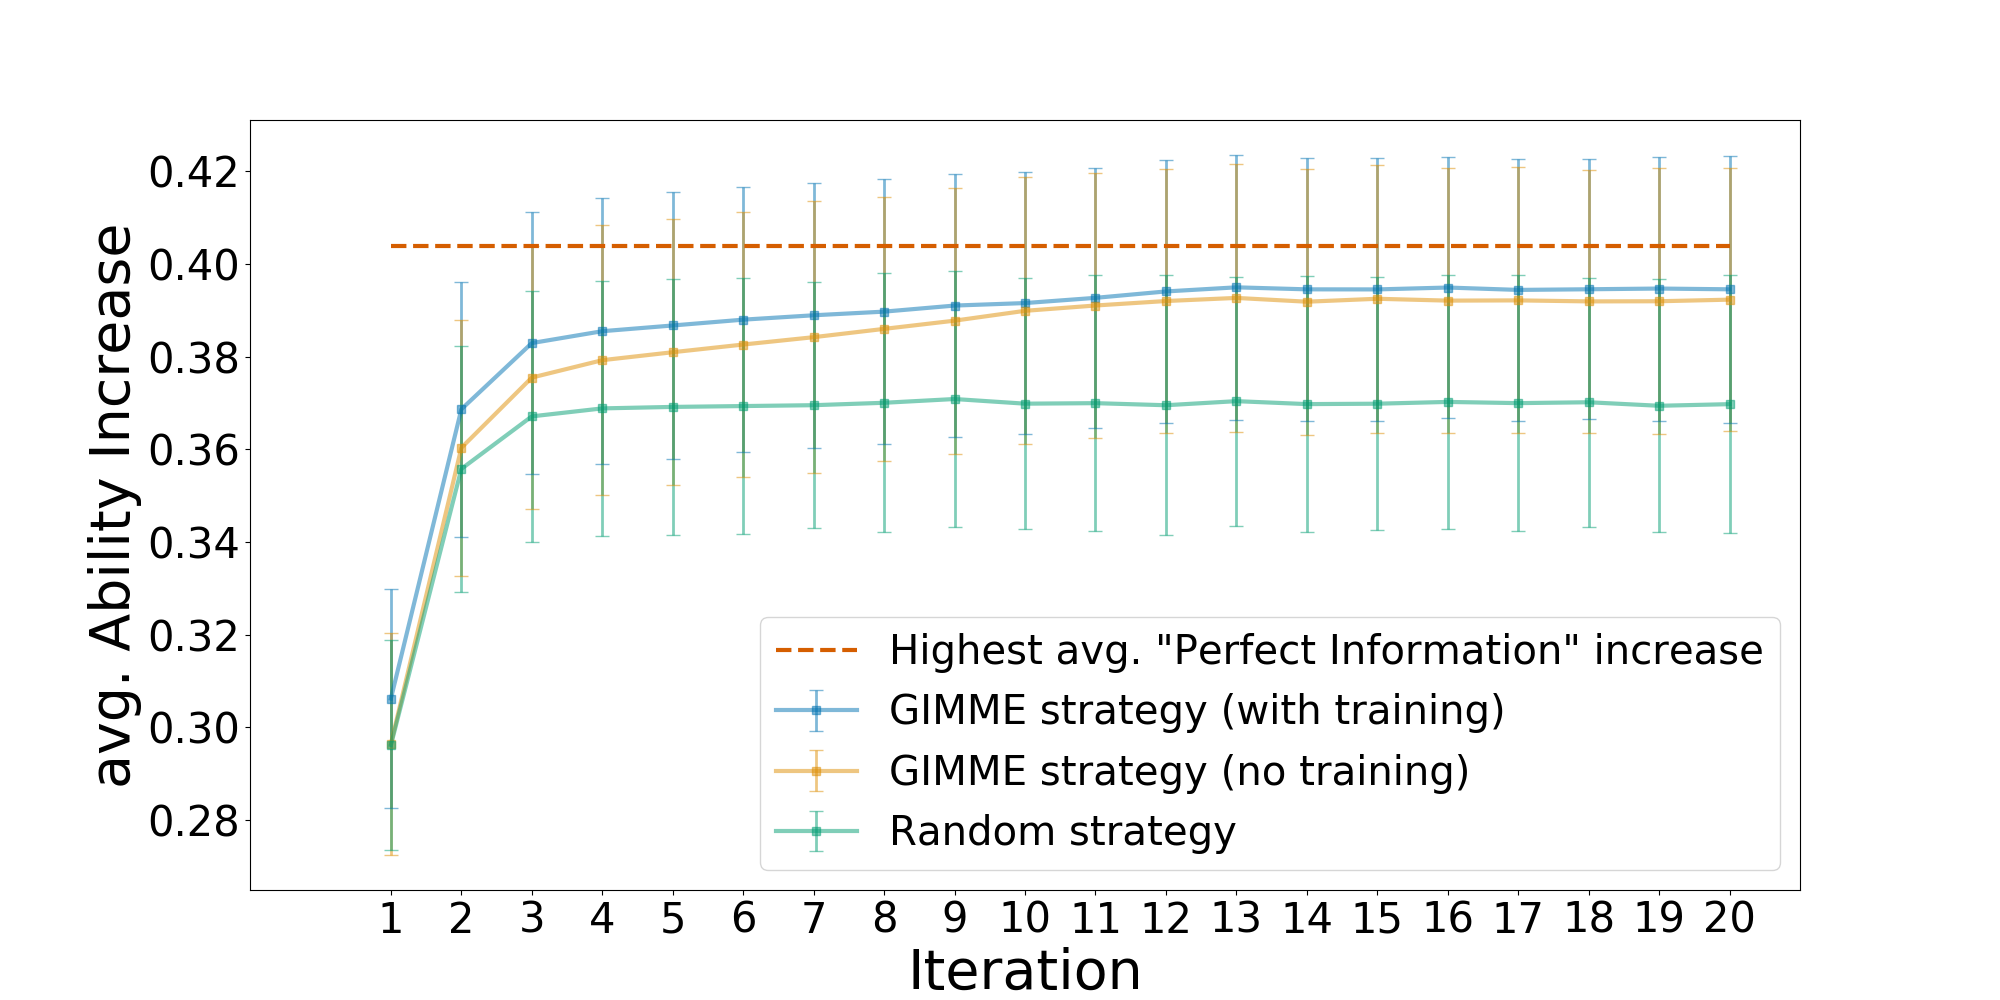
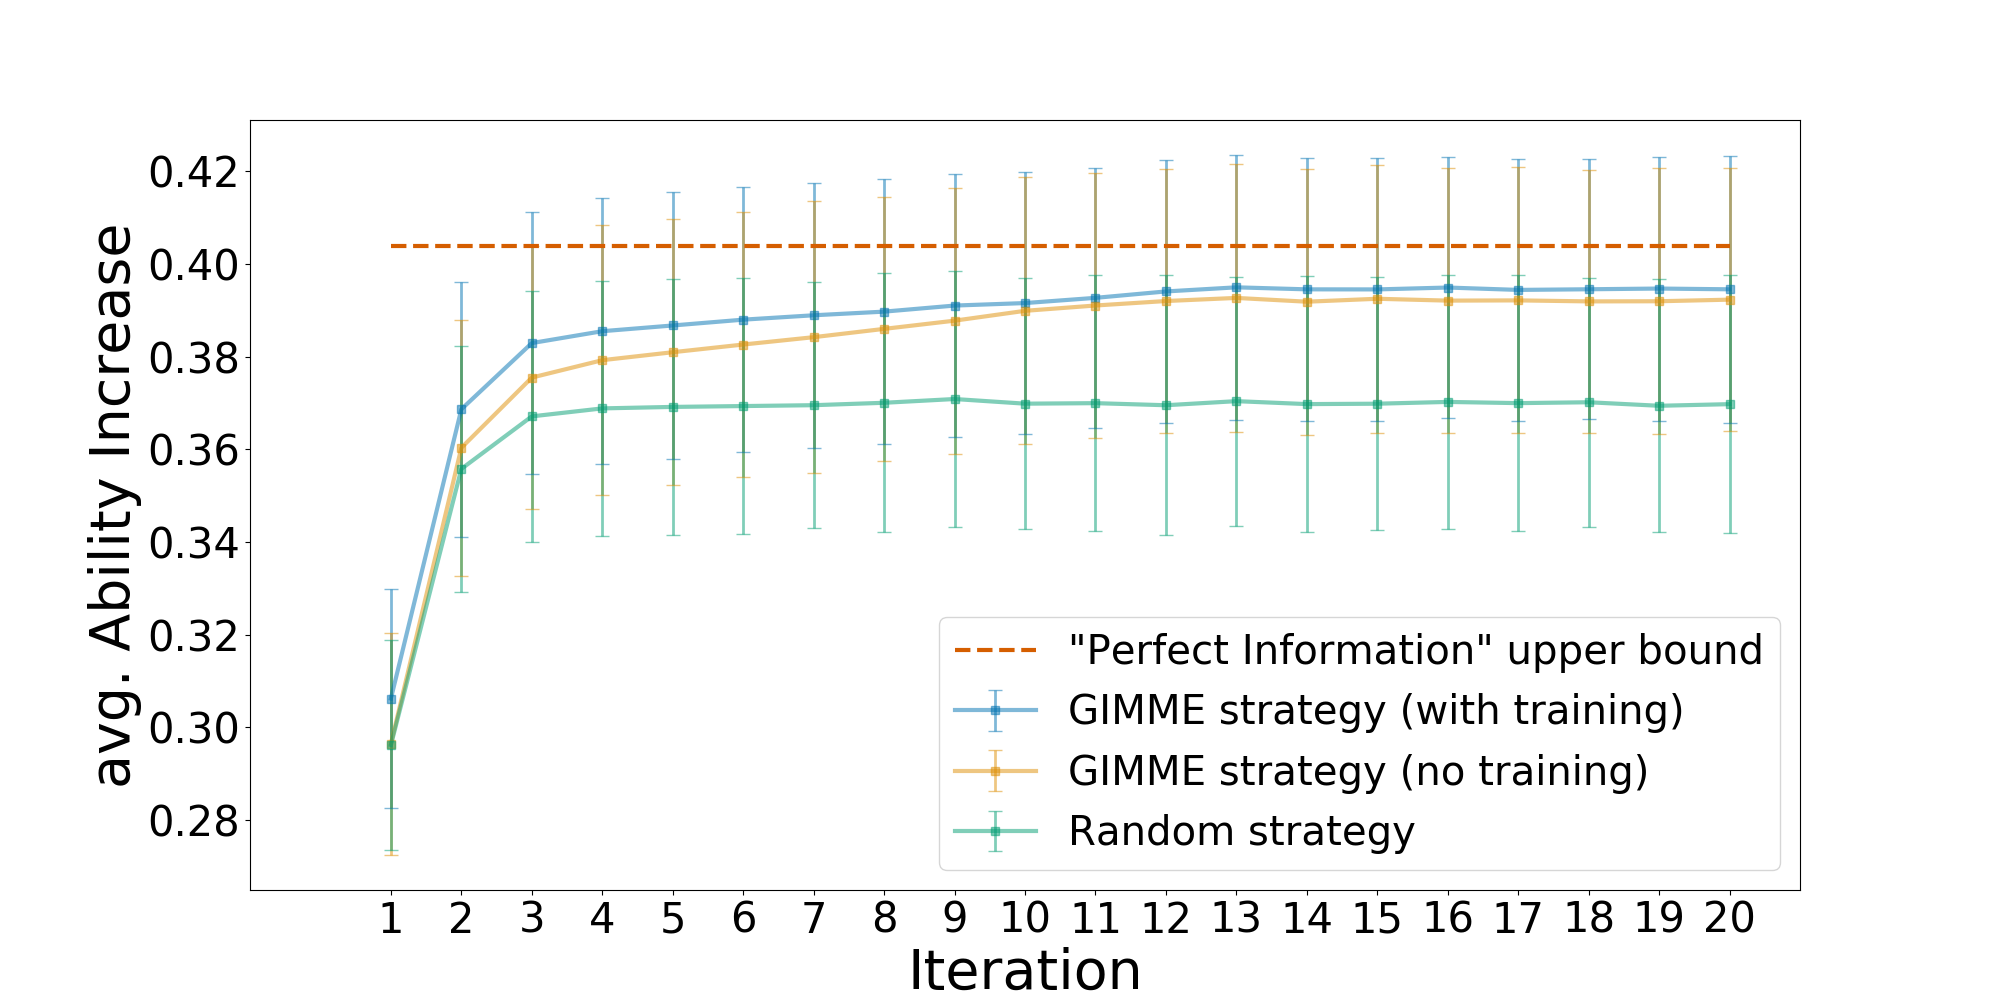
minor interfaces updates...

Changed region(s): [[0.403, 0.62, 0.868, 0.868]]

diff --git a/examples/plotsOnly.py b/examples/plotsOnly.py
@@ -63,7 +63,7 @@ plt.errorbar(timestepsReal, GIMMEOldAbilityMeans[maxNumTrainingIterations:], GIM
 # plt.plot(timesteps, GIMMEEvAbilities, label="GIMME Ev strategy")
 plt.errorbar(timestepsReal, randomAbilityMeans[maxNumTrainingIterations:], randomAbilitySTDev[maxNumTrainingIterations:], marker='s', capsize=5.0, alpha=0.5, linewidth=3, elinewidth=2, label="Random strategy")
 # plt.errorbar(timesteps, optimalAbilityMeans, optimalAbilitySTDev, marker='s', capsize=2.0, alpha=0.5, label="\"Perfect Information\" strategy")
-plt.plot(timestepsReal, empHighestValue[maxNumTrainingIterations:], linestyle= "--", linewidth=3, label="Highest avg. \"Perfect Information\" increase")
+plt.plot(timestepsReal, empHighestValue[maxNumTrainingIterations:], linestyle= "--", linewidth=3, label="\"Perfect Information\" upper bound")
 plt.xlabel("Iteration", fontsize=40)
 plt.ylabel("avg. Ability Increase", fontsize=40)
 plt.legend(loc='best', fontsize=29)

diff --git a/GIMMECore/ModelBridge/PlayerModelBridge.py b/GIMMECore/ModelBridge/PlayerModelBridge.py
@@ -2,19 +2,9 @@ from abc import ABC, abstractmethod
 from ..PlayerStructs import *
 
 class PlayerModelBridge(ABC):
-
-	@abstractmethod
-	def savePlayerState(self, playerId, newState):
-		pass
-
-	@abstractmethod
-	def setPlayerCharacteristics(self, playerId, characteristics):
-		pass
-
 	@abstractmethod
 	def resetPlayer(self, playerId):
 		pass
-
 
 	@abstractmethod
 	def getAllPlayerIds(self):
@@ -41,4 +31,15 @@ class PlayerModelBridge(ABC):
 	@abstractmethod
 	def getPlayerPersonality(self, playerId):
 		pass
-		
+
+	@abstractmethod
+	def setPlayerPersonality(self, playerId, personality):
+		pass
+
+	@abstractmethod
+	def savePlayerState(self, playerId, increases, newState):
+		pass
+
+	@abstractmethod
+	def setPlayerCharacteristics(self, playerId, characteristics):
+		pass

diff --git a/examples/ModelMocks.py b/examples/ModelMocks.py
@@ -50,7 +50,6 @@ class CustomPlayerModelBridge(PlayerModelBridge):
 		self.players[int(playerId)] = PlayerModelMock(playerId, name, currState, pastModelIncreasesGrid, currModelIncreases, personality)	
 	def resetPlayer(self, playerId):
 		self.players[int(playerId)].currState.reset()
-		# self.players[int(playerId)].pastModelIncreasesGrid.reset()
 	def updatePlayerState(self, playerId, newState):
 		self.players[int(playerId)].currState = newState
 	def savePlayerState(self, playerId, increases, newState):
